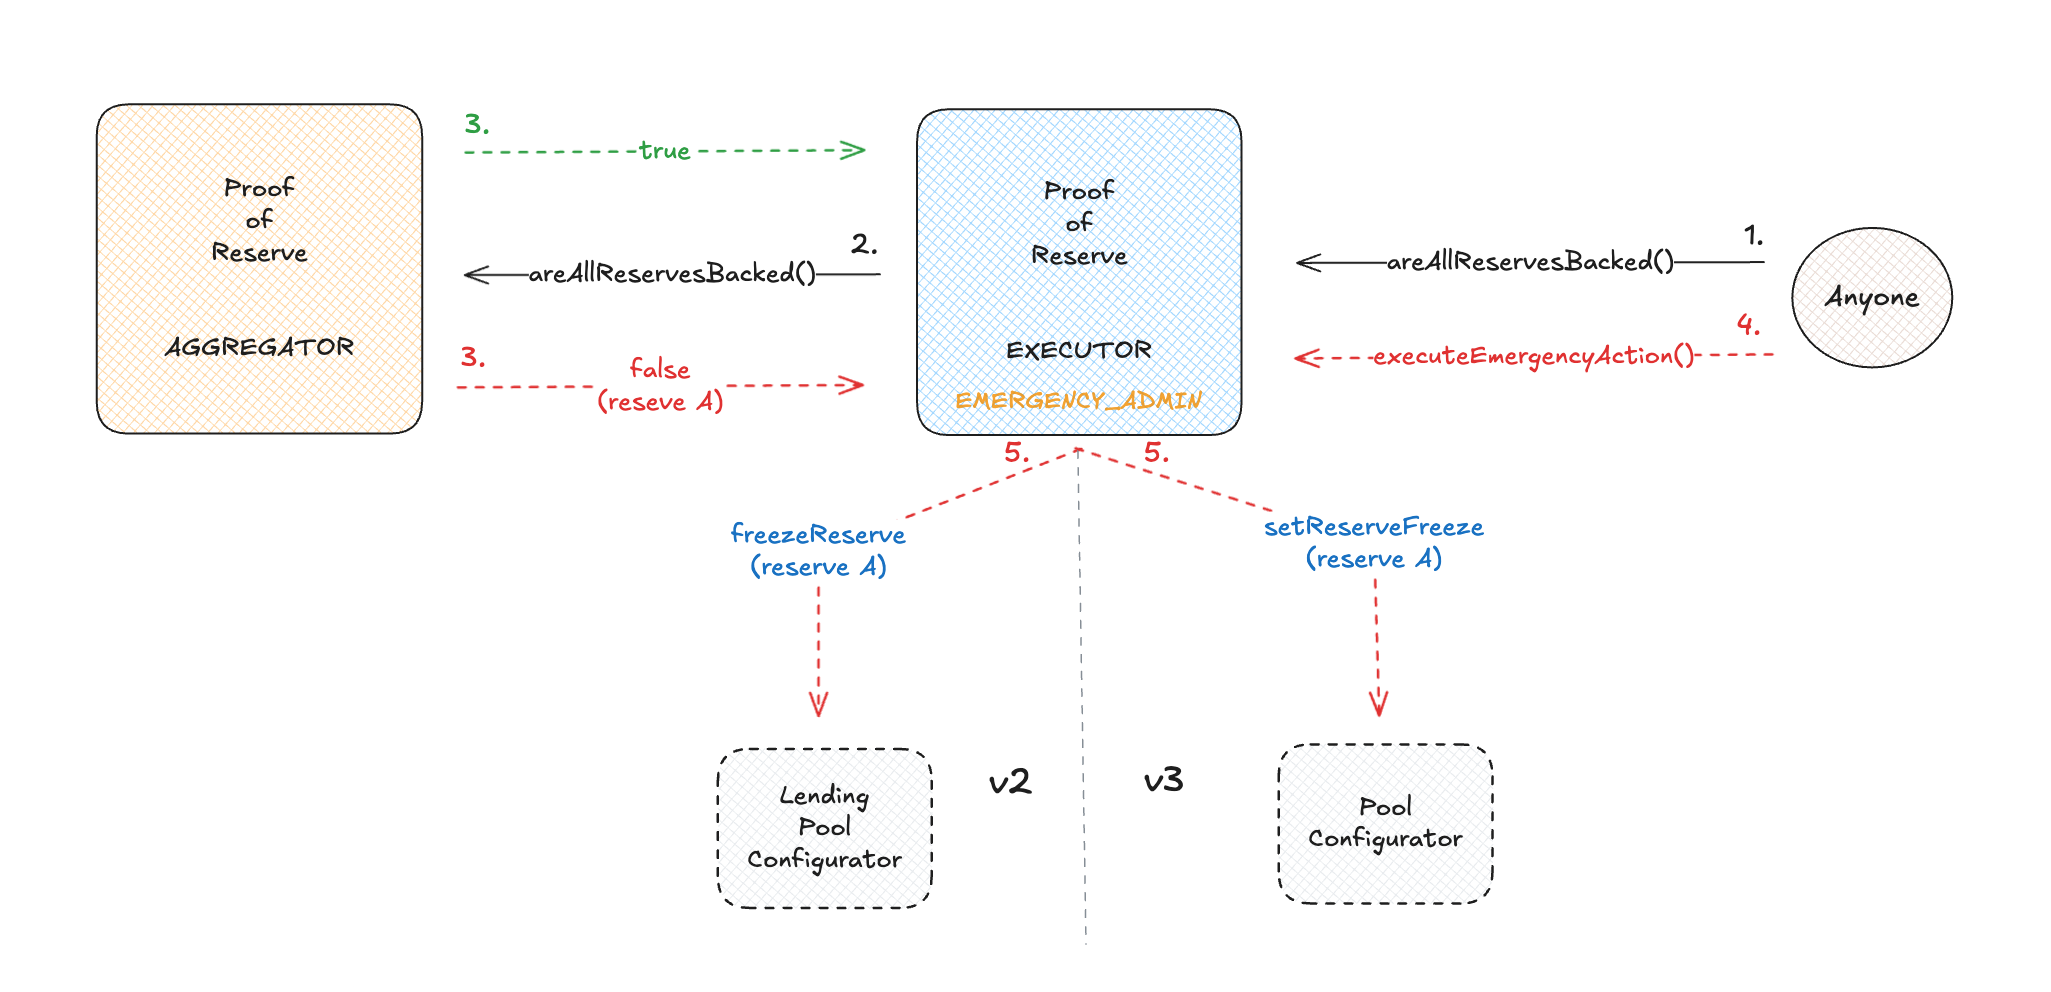
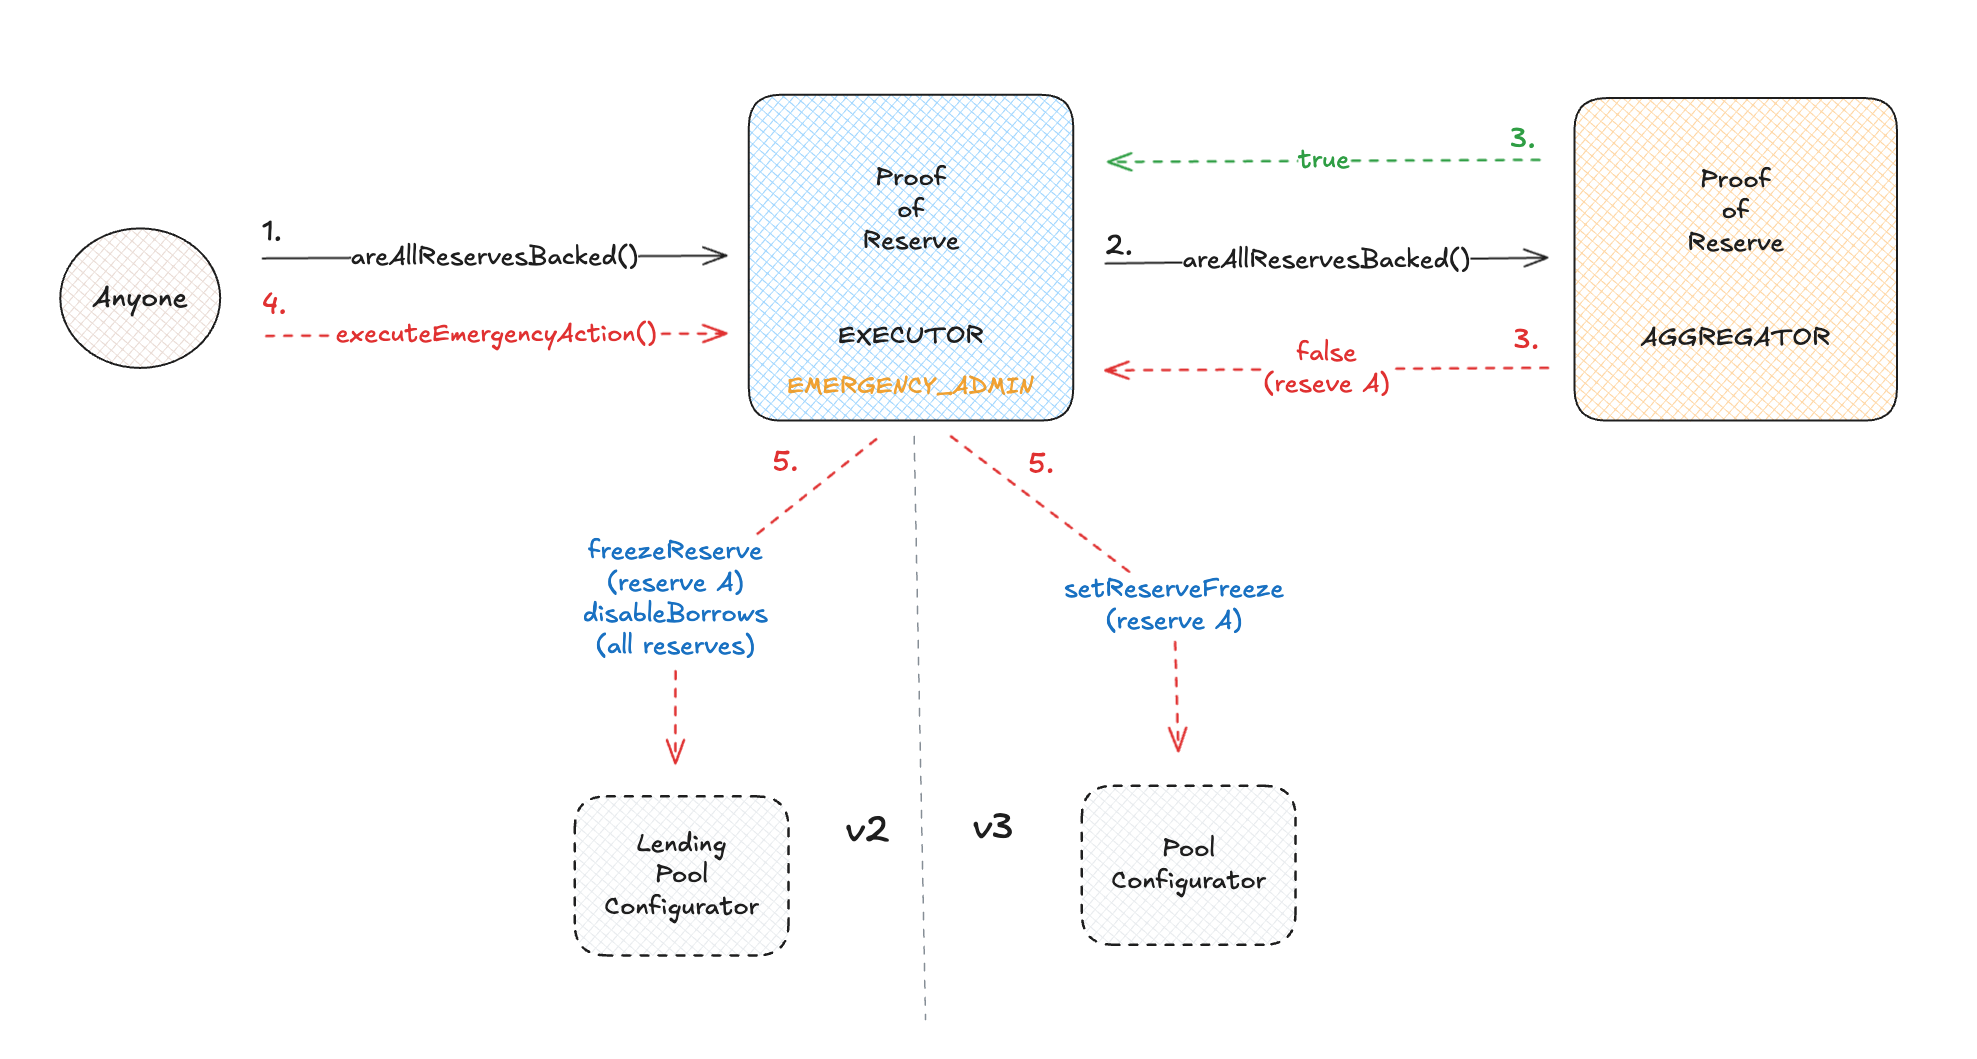
docs: bridge wrapper and PoRKeeper

diff --git a/README.md b/README.md
@@ -105,6 +105,9 @@ The contract uses OZ ownable for access control, which will be assigned to the A
   - **functionality**:
     - Permissionless function that uses the configured ProofOfReserveAggregator to get the collateralization status of the enabled assets in this contract and freeze undercollateralized reserves.
     - The Executor V2 includes an additional action that turns off borrowing of all pool V2 reserves.
+    - To Executors be able to perform the emergency action they must be granted pool specific roles:
+      - On V2: a `PROOF_OF_RESERVE_ADMIN` role must be granted to the Executor V2 via the Addresses Provider V2. Additionally, the Lending Pool Configurator must be upgraded to support the `PROOF_OF_RESERVE_ADMIN` role, enabling it to freeze reserves and disable borrowing.
+      - On V3: The `EMERGENCY_ADMIN_ROLE` must be granted to the Executor via the ACL Manager, allowing the Executor V3 to perform the freeze action.
 
 - **`enableAssets`**
 
@@ -119,6 +122,45 @@ The contract uses OZ ownable for access control, which will be assigned to the A
   - **functionality**:
     - Only the owner can call this function.
     - It verifies if the reserve is enabled and deletes it from the assets array.
+
+  <br>
+
+### `AvaxBridgeWrapper`
+
+This contract is specific for the Avalanche network, as several reserves have a deprecated bridge coexisting with the actual one. This bridge wrapper contract is used to return to the ProofOfReserveAggregator the correct total supply of a reserve with deprecated bridges by summing the total supply of the actual and deprecated bridges.
+
+#### Access Control
+
+- The bridge addresses are set in the constructor during the deployment, meaning that this contract does not provide any setters that could change bridge addresses.
+
+#### Key Functions
+
+- **`totalSupply`**
+
+  - **purpose**: Returns the real total supply of a cross-chain reserve.
+  - **functionality**:
+    - Permissionless view function that sums the total supply of the actual and deprecated bridge for the reserve to which this contract was deployed.
+
+  <br>
+
+### `ProofOfReserveKeeper`
+
+This contract is Chainlink Automation compatible, which will execute the emergency action by constantly monitoring the Aave Proof of Reserve system through the Executors.
+
+#### Key Functions
+
+- **`checkUpkeep`**
+  - **purpose**: Getter checked by Chainlink Automation to determine whether an emergency action should be performed by a specific ProofOfReserveExecutor.
+  - **functionality**:
+    - Accepts as input the encoded address of a ProofOfReserveExecutor contract and calls `areAllReservesBacked()` and `isEmergencyActionPossible()` to confirm that if a reserve is undercollateralized the emergency action can be triggered.
+    - Returns true if both conditions are met. False otherwise.
+- **`performUpkeep`**
+
+  - **purpose**: Called by Chainlink Automation after the `checkUpkeep` indicates that the emergency action can be executed.
+  - **functionality**:
+    - Accepts as input the encoded address of a ProofOfReserveExecutor contract in which the emergency action will be performed and calls the `executeEmergencyAction()` function in the specific Executor.
+
+  <br>
 
 # SetUp
 
